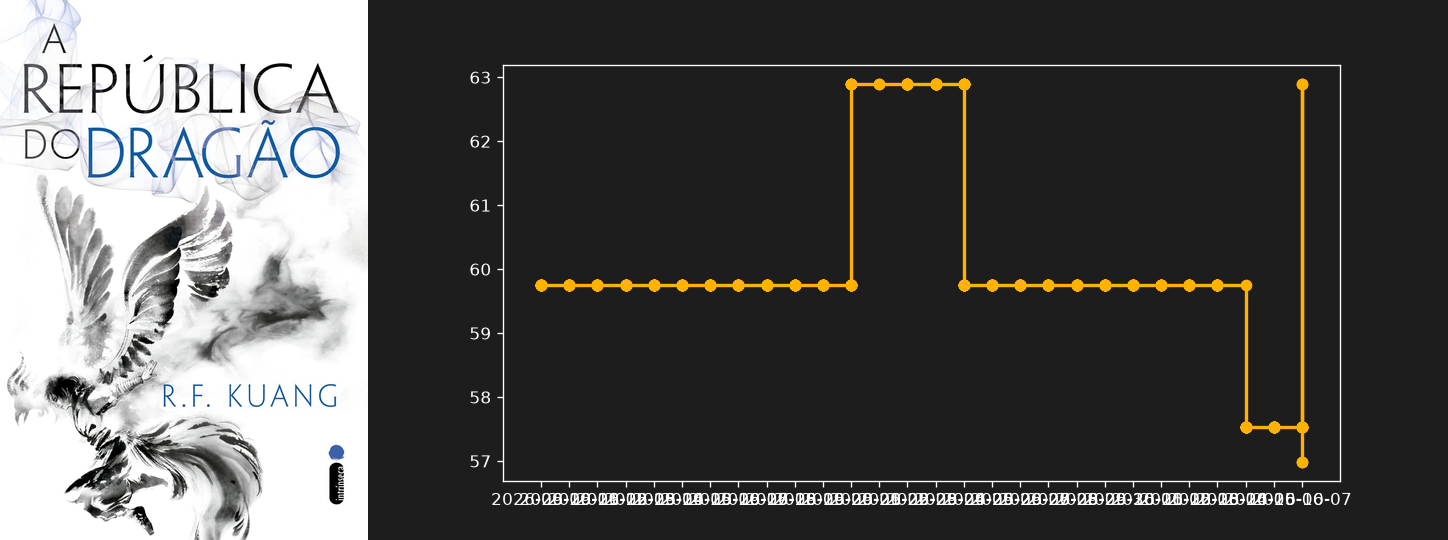
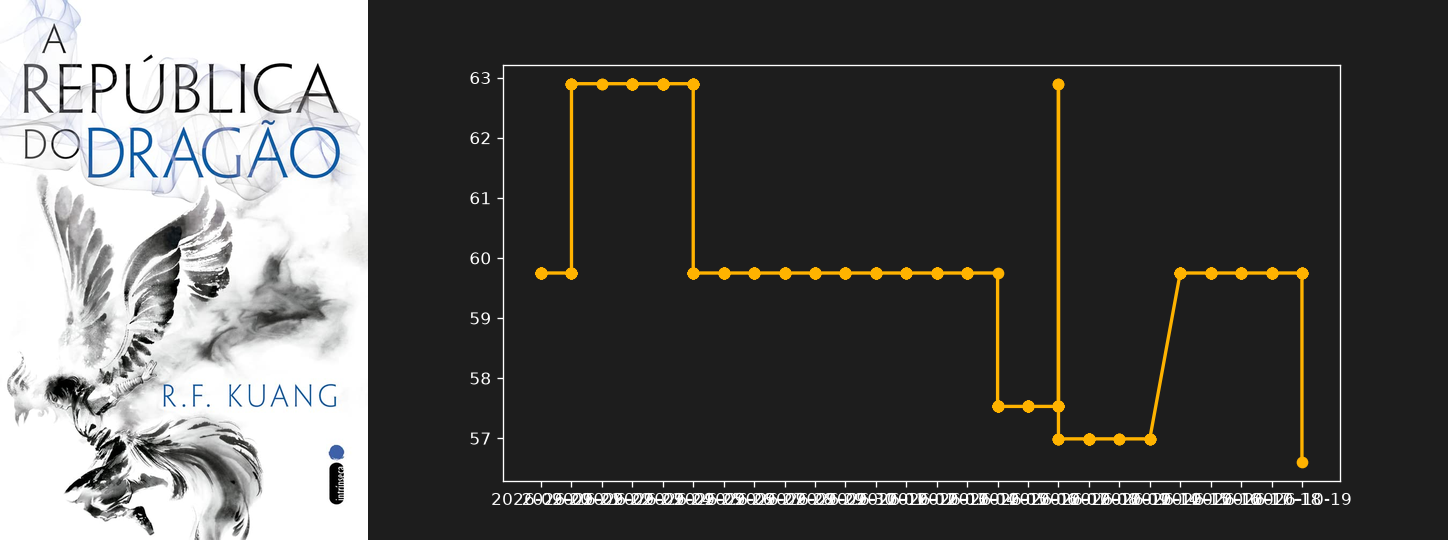
Atualizacao automatica: Novos precos e graficos

diff --git a/index.html b/index.html
@@ -48,7 +48,7 @@
             <div class="flex flex-col mt-auto mb-5">
                 <div class="flex items-baseline gap-2">
                     <span class="text-2xl font-bold text-white tracking-tight">R$ 223,92</span>
-                    <span class="text-sm text-gray-500 line-through">R$ 278,93</span>
+                    <span class="text-sm text-gray-500 line-through">R$ 278,79</span>
                 </div>
             </div>
             <a href="https://link.amazon/B0bxqDHXJ" target="_blank" rel="nofollow noopener" class="w-full flex items-center justify-center gap-2 py-2.5 rounded-xl bg-white/5 hover:bg-bardo-gold hover:text-bardo-dark text-sm font-bold text-gray-200 transition-all">Comprar na Amazon</a>
@@ -88,7 +88,7 @@
             <div class="flex flex-col mt-auto mb-5">
                 <div class="flex items-baseline gap-2">
                     <span class="text-2xl font-bold text-white tracking-tight">R$ 43,19</span>
-                    <span class="text-sm text-gray-500 line-through">R$ 46,73</span>
+                    <span class="text-sm text-gray-500 line-through">R$ 46,72</span>
                 </div>
             </div>
             <a href="https://link.amazon/B07BZ9Phr" target="_blank" rel="nofollow noopener" class="w-full flex items-center justify-center gap-2 py-2.5 rounded-xl bg-white/5 hover:bg-bardo-gold hover:text-bardo-dark text-sm font-bold text-gray-200 transition-all">Comprar na Amazon</a>
@@ -108,7 +108,7 @@
             <div class="flex flex-col mt-auto mb-5">
                 <div class="flex items-baseline gap-2">
                     <span class="text-2xl font-bold text-white tracking-tight">R$ 43,14</span>
-                    <span class="text-sm text-gray-500 line-through">R$ 39,51</span>
+                    <span class="text-sm text-gray-500 line-through">R$ 39,52</span>
                 </div>
             </div>
             <a href="https://link.amazon/B0ahQKnZG" target="_blank" rel="nofollow noopener" class="w-full flex items-center justify-center gap-2 py-2.5 rounded-xl bg-white/5 hover:bg-bardo-gold hover:text-bardo-dark text-sm font-bold text-gray-200 transition-all">Comprar na Amazon</a>
@@ -148,7 +148,7 @@
             <div class="flex flex-col mt-auto mb-5">
                 <div class="flex items-baseline gap-2">
                     <span class="text-2xl font-bold text-white tracking-tight">R$ 132,90</span>
-                    <span class="text-sm text-gray-500 line-through">R$ 144,15</span>
+                    <span class="text-sm text-gray-500 line-through">R$ 144,13</span>
                 </div>
             </div>
             <a href="https://link.amazon/B04OFbHZF" target="_blank" rel="nofollow noopener" class="w-full flex items-center justify-center gap-2 py-2.5 rounded-xl bg-white/5 hover:bg-bardo-gold hover:text-bardo-dark text-sm font-bold text-gray-200 transition-all">Comprar na Amazon</a>
@@ -168,7 +168,7 @@
             <div class="flex flex-col mt-auto mb-5">
                 <div class="flex items-baseline gap-2">
                     <span class="text-2xl font-bold text-white tracking-tight">R$ 116,02</span>
-                    <span class="text-sm text-gray-500 line-through">R$ 126,91</span>
+                    <span class="text-sm text-gray-500 line-through">R$ 126,89</span>
                 </div>
             </div>
             <a href="https://link.amazon/B0bOFsgQ9" target="_blank" rel="nofollow noopener" class="w-full flex items-center justify-center gap-2 py-2.5 rounded-xl bg-white/5 hover:bg-bardo-gold hover:text-bardo-dark text-sm font-bold text-gray-200 transition-all">Comprar na Amazon</a>
@@ -188,7 +188,7 @@
             <div class="flex flex-col mt-auto mb-5">
                 <div class="flex items-baseline gap-2">
                     <span class="text-2xl font-bold text-white tracking-tight">R$ 207,20</span>
-                    <span class="text-sm text-gray-500 line-through">R$ 209,42</span>
+                    <span class="text-sm text-gray-500 line-through">R$ 209,41</span>
                 </div>
             </div>
             <a href="https://link.amazon/B0cOS4omj" target="_blank" rel="nofollow noopener" class="w-full flex items-center justify-center gap-2 py-2.5 rounded-xl bg-white/5 hover:bg-bardo-gold hover:text-bardo-dark text-sm font-bold text-gray-200 transition-all">Comprar na Amazon</a>
@@ -228,7 +228,7 @@
             <div class="flex flex-col mt-auto mb-5">
                 <div class="flex items-baseline gap-2">
                     <span class="text-2xl font-bold text-white tracking-tight">R$ 71,32</span>
-                    <span class="text-sm text-gray-500 line-through">R$ 79,05</span>
+                    <span class="text-sm text-gray-500 line-through">R$ 79,04</span>
                 </div>
             </div>
             <a href="https://link.amazon/B01CIGwaZ" target="_blank" rel="nofollow noopener" class="w-full flex items-center justify-center gap-2 py-2.5 rounded-xl bg-white/5 hover:bg-bardo-gold hover:text-bardo-dark text-sm font-bold text-gray-200 transition-all">Comprar na Amazon</a>
@@ -248,7 +248,7 @@
             <div class="flex flex-col mt-auto mb-5">
                 <div class="flex items-baseline gap-2">
                     <span class="text-2xl font-bold text-white tracking-tight">R$ 414,48</span>
-                    <span class="text-sm text-gray-500 line-through">R$ 403,35</span>
+                    <span class="text-sm text-gray-500 line-through">R$ 403,38</span>
                 </div>
             </div>
             <a href="https://link.amazon/B0czAwuOp" target="_blank" rel="nofollow noopener" class="w-full flex items-center justify-center gap-2 py-2.5 rounded-xl bg-white/5 hover:bg-bardo-gold hover:text-bardo-dark text-sm font-bold text-gray-200 transition-all">Comprar na Amazon</a>
@@ -287,8 +287,8 @@
             <h3 class="text-base font-semibold text-gray-100 leading-snug line-clamp-2 mb-4 group-hover:text-bardo-gold transition-colors">Mistborn: O Império Final: Livro 1 de Mistborn</h3>
             <div class="flex flex-col mt-auto mb-5">
                 <div class="flex items-baseline gap-2">
-                    <span class="text-2xl font-bold text-white tracking-tight">R$ 66,66</span>
-                    <span class="text-sm text-gray-500 line-through">R$ 80,42</span>
+                    <span class="text-2xl font-bold text-white tracking-tight">R$ 67,58</span>
+                    <span class="text-sm text-gray-500 line-through">R$ 80,39</span>
                 </div>
             </div>
             <a href="https://link.amazon/B0bJ5jTSU" target="_blank" rel="nofollow noopener" class="w-full flex items-center justify-center gap-2 py-2.5 rounded-xl bg-white/5 hover:bg-bardo-gold hover:text-bardo-dark text-sm font-bold text-gray-200 transition-all">Comprar na Amazon</a>
@@ -315,7 +315,7 @@
         </div>
     </article>
     <article class="relative flex flex-col bg-surface rounded-2xl border border-white/5 overflow-hidden hover:border-bardo-gold/40 transition-all duration-300 group shadow-lg">
-        
+        <div class="absolute top-3 left-3 z-10"><span class="px-2.5 py-1 text-[11px] font-bold uppercase tracking-wider text-emerald-400 bg-emerald-500/10 border border-emerald-500/20 rounded-full backdrop-blur-md shadow-lg">Abaixo da Média</span></div>
         <!-- Vitrine com Efeito Hover Swap -->
         <div class="relative h-64 w-full bg-gradient-to-b from-white/[0.03] to-transparent border-b border-white/5 overflow-hidden">
             <!-- Imagem 1: Capa (Soma ao Hover) -->
@@ -327,8 +327,8 @@
             <h3 class="text-base font-semibold text-gray-100 leading-snug line-clamp-2 mb-4 group-hover:text-bardo-gold transition-colors">A república do dragão: 2</h3>
             <div class="flex flex-col mt-auto mb-5">
                 <div class="flex items-baseline gap-2">
-                    <span class="text-2xl font-bold text-white tracking-tight">R$ 59,75</span>
-                    <span class="text-sm text-gray-500 line-through">R$ 59,73</span>
+                    <span class="text-2xl font-bold text-white tracking-tight">R$ 56,61</span>
+                    <span class="text-sm text-gray-500 line-through">R$ 59,72</span>
                 </div>
             </div>
             <a href="https://link.amazon/B05s4V4tS" target="_blank" rel="nofollow noopener" class="w-full flex items-center justify-center gap-2 py-2.5 rounded-xl bg-white/5 hover:bg-bardo-gold hover:text-bardo-dark text-sm font-bold text-gray-200 transition-all">Comprar na Amazon</a>
@@ -348,7 +348,7 @@
             <div class="flex flex-col mt-auto mb-5">
                 <div class="flex items-baseline gap-2">
                     <span class="text-2xl font-bold text-white tracking-tight">R$ 56,25</span>
-                    <span class="text-sm text-gray-500 line-through">R$ 58,69</span>
+                    <span class="text-sm text-gray-500 line-through">R$ 58,68</span>
                 </div>
             </div>
             <a href="https://link.amazon/B00tEF0jN" target="_blank" rel="nofollow noopener" class="w-full flex items-center justify-center gap-2 py-2.5 rounded-xl bg-white/5 hover:bg-bardo-gold hover:text-bardo-dark text-sm font-bold text-gray-200 transition-all">Comprar na Amazon</a>
@@ -368,7 +368,7 @@
             <div class="flex flex-col mt-auto mb-5">
                 <div class="flex items-baseline gap-2">
                     <span class="text-2xl font-bold text-white tracking-tight">R$ 85,47</span>
-                    <span class="text-sm text-gray-500 line-through">R$ 110,09</span>
+                    <span class="text-sm text-gray-500 line-through">R$ 110,03</span>
                 </div>
             </div>
             <a href="https://link.amazon/B0g8PJdyP" target="_blank" rel="nofollow noopener" class="w-full flex items-center justify-center gap-2 py-2.5 rounded-xl bg-white/5 hover:bg-bardo-gold hover:text-bardo-dark text-sm font-bold text-gray-200 transition-all">Comprar na Amazon</a>
@@ -408,7 +408,7 @@
             <div class="flex flex-col mt-auto mb-5">
                 <div class="flex items-baseline gap-2">
                     <span class="text-2xl font-bold text-white tracking-tight">R$ 109,80</span>
-                    <span class="text-sm text-gray-500 line-through">R$ 125,43</span>
+                    <span class="text-sm text-gray-500 line-through">R$ 125,39</span>
                 </div>
             </div>
             <a href="https://link.amazon/B0cBFS3o1" target="_blank" rel="nofollow noopener" class="w-full flex items-center justify-center gap-2 py-2.5 rounded-xl bg-white/5 hover:bg-bardo-gold hover:text-bardo-dark text-sm font-bold text-gray-200 transition-all">Comprar na Amazon</a>
@@ -428,7 +428,7 @@
             <div class="flex flex-col mt-auto mb-5">
                 <div class="flex items-baseline gap-2">
                     <span class="text-2xl font-bold text-white tracking-tight">R$ 148,29</span>
-                    <span class="text-sm text-gray-500 line-through">R$ 143,84</span>
+                    <span class="text-sm text-gray-500 line-through">R$ 143,85</span>
                 </div>
             </div>
             <a href="https://link.amazon/B0f81O992" target="_blank" rel="nofollow noopener" class="w-full flex items-center justify-center gap-2 py-2.5 rounded-xl bg-white/5 hover:bg-bardo-gold hover:text-bardo-dark text-sm font-bold text-gray-200 transition-all">Comprar na Amazon</a>
@@ -488,7 +488,7 @@
             <div class="flex flex-col mt-auto mb-5">
                 <div class="flex items-baseline gap-2">
                     <span class="text-2xl font-bold text-white tracking-tight">R$ 34,01</span>
-                    <span class="text-sm text-gray-500 line-through">R$ 36,53</span>
+                    <span class="text-sm text-gray-500 line-through">R$ 36,52</span>
                 </div>
             </div>
             <a href="https://link.amazon/B0eRR4Vm5" target="_blank" rel="nofollow noopener" class="w-full flex items-center justify-center gap-2 py-2.5 rounded-xl bg-white/5 hover:bg-bardo-gold hover:text-bardo-dark text-sm font-bold text-gray-200 transition-all">Comprar na Amazon</a>
@@ -528,7 +528,7 @@
             <div class="flex flex-col mt-auto mb-5">
                 <div class="flex items-baseline gap-2">
                     <span class="text-2xl font-bold text-white tracking-tight">R$ 144,83</span>
-                    <span class="text-sm text-gray-500 line-through">R$ 160,39</span>
+                    <span class="text-sm text-gray-500 line-through">R$ 160,35</span>
                 </div>
             </div>
             <a href="https://link.amazon/B01Lo4CLZ" target="_blank" rel="nofollow noopener" class="w-full flex items-center justify-center gap-2 py-2.5 rounded-xl bg-white/5 hover:bg-bardo-gold hover:text-bardo-dark text-sm font-bold text-gray-200 transition-all">Comprar na Amazon</a>
@@ -588,7 +588,7 @@
             <div class="flex flex-col mt-auto mb-5">
                 <div class="flex items-baseline gap-2">
                     <span class="text-2xl font-bold text-white tracking-tight">R$ 285,85</span>
-                    <span class="text-sm text-gray-500 line-through">R$ 246,94</span>
+                    <span class="text-sm text-gray-500 line-through">R$ 247,04</span>
                 </div>
             </div>
             <a href="https://link.amazon/B046QvncM" target="_blank" rel="nofollow noopener" class="w-full flex items-center justify-center gap-2 py-2.5 rounded-xl bg-white/5 hover:bg-bardo-gold hover:text-bardo-dark text-sm font-bold text-gray-200 transition-all">Comprar na Amazon</a>
@@ -608,7 +608,7 @@
             <div class="flex flex-col mt-auto mb-5">
                 <div class="flex items-baseline gap-2">
                     <span class="text-2xl font-bold text-white tracking-tight">R$ 192,75</span>
-                    <span class="text-sm text-gray-500 line-through">R$ 183,45</span>
+                    <span class="text-sm text-gray-500 line-through">R$ 183,47</span>
                 </div>
             </div>
             <a href="https://link.amazon/B037mPoB1" target="_blank" rel="nofollow noopener" class="w-full flex items-center justify-center gap-2 py-2.5 rounded-xl bg-white/5 hover:bg-bardo-gold hover:text-bardo-dark text-sm font-bold text-gray-200 transition-all">Comprar na Amazon</a>
@@ -628,7 +628,7 @@
             <div class="flex flex-col mt-auto mb-5">
                 <div class="flex items-baseline gap-2">
                     <span class="text-2xl font-bold text-white tracking-tight">R$ 42,91</span>
-                    <span class="text-sm text-gray-500 line-through">R$ 40,32</span>
+                    <span class="text-sm text-gray-500 line-through">R$ 40,33</span>
                 </div>
             </div>
             <a href="https://link.amazon/B0ja4Ste6" target="_blank" rel="nofollow noopener" class="w-full flex items-center justify-center gap-2 py-2.5 rounded-xl bg-white/5 hover:bg-bardo-gold hover:text-bardo-dark text-sm font-bold text-gray-200 transition-all">Comprar na Amazon</a>
@@ -668,7 +668,7 @@
             <div class="flex flex-col mt-auto mb-5">
                 <div class="flex items-baseline gap-2">
                     <span class="text-2xl font-bold text-white tracking-tight">R$ 59,25</span>
-                    <span class="text-sm text-gray-500 line-through">R$ 53,46</span>
+                    <span class="text-sm text-gray-500 line-through">R$ 53,47</span>
                 </div>
             </div>
             <a href="https://link.amazon/B0gViTEpL" target="_blank" rel="nofollow noopener" class="w-full flex items-center justify-center gap-2 py-2.5 rounded-xl bg-white/5 hover:bg-bardo-gold hover:text-bardo-dark text-sm font-bold text-gray-200 transition-all">Comprar na Amazon</a>
@@ -728,7 +728,7 @@
             <div class="flex flex-col mt-auto mb-5">
                 <div class="flex items-baseline gap-2">
                     <span class="text-2xl font-bold text-white tracking-tight">R$ 69,05</span>
-                    <span class="text-sm text-gray-500 line-through">R$ 68,39</span>
+                    <span class="text-sm text-gray-500 line-through">R$ 68,40</span>
                 </div>
             </div>
             <a href="https://link.amazon/B0gpt2mie" target="_blank" rel="nofollow noopener" class="w-full flex items-center justify-center gap-2 py-2.5 rounded-xl bg-white/5 hover:bg-bardo-gold hover:text-bardo-dark text-sm font-bold text-gray-200 transition-all">Comprar na Amazon</a>
@@ -748,7 +748,7 @@
             <div class="flex flex-col mt-auto mb-5">
                 <div class="flex items-baseline gap-2">
                     <span class="text-2xl font-bold text-white tracking-tight">R$ 61,34</span>
-                    <span class="text-sm text-gray-500 line-through">R$ 69,27</span>
+                    <span class="text-sm text-gray-500 line-through">R$ 69,25</span>
                 </div>
             </div>
             <a href="https://link.amazon/B053gl2cU" target="_blank" rel="nofollow noopener" class="w-full flex items-center justify-center gap-2 py-2.5 rounded-xl bg-white/5 hover:bg-bardo-gold hover:text-bardo-dark text-sm font-bold text-gray-200 transition-all">Comprar na Amazon</a>
@@ -788,7 +788,7 @@
             <div class="flex flex-col mt-auto mb-5">
                 <div class="flex items-baseline gap-2">
                     <span class="text-2xl font-bold text-white tracking-tight">R$ 43,14</span>
-                    <span class="text-sm text-gray-500 line-through">R$ 40,30</span>
+                    <span class="text-sm text-gray-500 line-through">R$ 40,31</span>
                 </div>
             </div>
             <a href="https://link.amazon/B0aKkKOM2" target="_blank" rel="nofollow noopener" class="w-full flex items-center justify-center gap-2 py-2.5 rounded-xl bg-white/5 hover:bg-bardo-gold hover:text-bardo-dark text-sm font-bold text-gray-200 transition-all">Comprar na Amazon</a>
@@ -808,7 +808,7 @@
             <div class="flex flex-col mt-auto mb-5">
                 <div class="flex items-baseline gap-2">
                     <span class="text-2xl font-bold text-white tracking-tight">R$ 153,73</span>
-                    <span class="text-sm text-gray-500 line-through">R$ 145,41</span>
+                    <span class="text-sm text-gray-500 line-through">R$ 145,43</span>
                 </div>
             </div>
             <a href="https://link.amazon/B02R68ory" target="_blank" rel="nofollow noopener" class="w-full flex items-center justify-center gap-2 py-2.5 rounded-xl bg-white/5 hover:bg-bardo-gold hover:text-bardo-dark text-sm font-bold text-gray-200 transition-all">Comprar na Amazon</a>
@@ -848,7 +848,7 @@
             <div class="flex flex-col mt-auto mb-5">
                 <div class="flex items-baseline gap-2">
                     <span class="text-2xl font-bold text-white tracking-tight">R$ 473,33</span>
-                    <span class="text-sm text-gray-500 line-through">R$ 468,74</span>
+                    <span class="text-sm text-gray-500 line-through">R$ 468,75</span>
                 </div>
             </div>
             <a href="https://link.amazon/B04zvHdbV" target="_blank" rel="nofollow noopener" class="w-full flex items-center justify-center gap-2 py-2.5 rounded-xl bg-white/5 hover:bg-bardo-gold hover:text-bardo-dark text-sm font-bold text-gray-200 transition-all">Comprar na Amazon</a>
@@ -928,7 +928,7 @@
             <div class="flex flex-col mt-auto mb-5">
                 <div class="flex items-baseline gap-2">
                     <span class="text-2xl font-bold text-white tracking-tight">R$ 56,56</span>
-                    <span class="text-sm text-gray-500 line-through">R$ 60,91</span>
+                    <span class="text-sm text-gray-500 line-through">R$ 60,90</span>
                 </div>
             </div>
             <a href="https://link.amazon/B0jllWIXN" target="_blank" rel="nofollow noopener" class="w-full flex items-center justify-center gap-2 py-2.5 rounded-xl bg-white/5 hover:bg-bardo-gold hover:text-bardo-dark text-sm font-bold text-gray-200 transition-all">Comprar na Amazon</a>
@@ -948,7 +948,7 @@
             <div class="flex flex-col mt-auto mb-5">
                 <div class="flex items-baseline gap-2">
                     <span class="text-2xl font-bold text-white tracking-tight">R$ 141,07</span>
-                    <span class="text-sm text-gray-500 line-through">R$ 151,96</span>
+                    <span class="text-sm text-gray-500 line-through">R$ 151,94</span>
                 </div>
             </div>
             <a href="https://link.amazon/B0fmYiyYt" target="_blank" rel="nofollow noopener" class="w-full flex items-center justify-center gap-2 py-2.5 rounded-xl bg-white/5 hover:bg-bardo-gold hover:text-bardo-dark text-sm font-bold text-gray-200 transition-all">Comprar na Amazon</a>
@@ -988,7 +988,7 @@
             <div class="flex flex-col mt-auto mb-5">
                 <div class="flex items-baseline gap-2">
                     <span class="text-2xl font-bold text-white tracking-tight">R$ 324,86</span>
-                    <span class="text-sm text-gray-500 line-through">R$ 335,64</span>
+                    <span class="text-sm text-gray-500 line-through">R$ 335,62</span>
                 </div>
             </div>
             <a href="https://link.amazon/B02mXXqIa" target="_blank" rel="nofollow noopener" class="w-full flex items-center justify-center gap-2 py-2.5 rounded-xl bg-white/5 hover:bg-bardo-gold hover:text-bardo-dark text-sm font-bold text-gray-200 transition-all">Comprar na Amazon</a>
